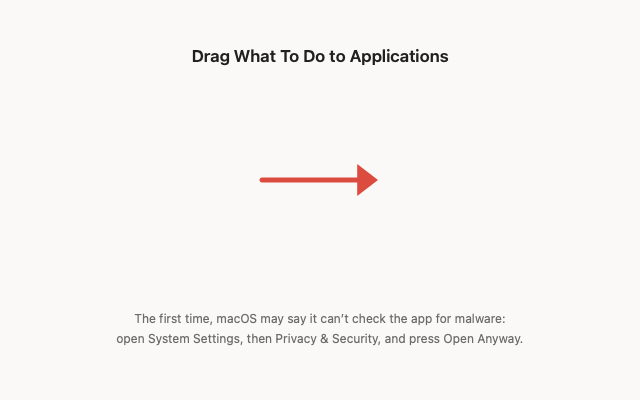
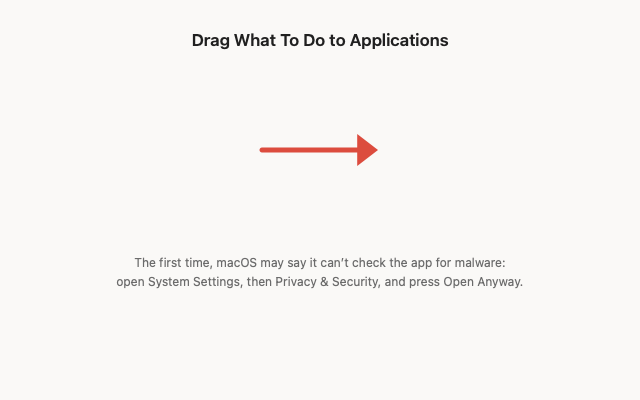
macOS disk images: Intel build, smoke test, release workflow, README install path

diff --git a/macos/scripts/render-dmg-background.swift b/macos/scripts/render-dmg-background.swift
@@ -4,8 +4,8 @@
 import AppKit
 
 let size = NSSize(width: 640, height: 400)
-let appCenter = NSPoint(x: 170, y: 180)
-let applicationsCenter = NSPoint(x: 470, y: 180)
+let appCenter = NSPoint(x: 170, y: 150)
+let applicationsCenter = NSPoint(x: 470, y: 150)
 let arrowInset: CGFloat = 92
 let arrowHead: CGFloat = 16
 
@@ -58,9 +58,9 @@ head.close()
 accent.setFill()
 head.fill()
 
-draw("Drag What To Do to Applications", size: 17, weight: .semibold, color: ink, centerY: 56)
-draw("The first time, macOS may say it can’t check the app for malware:", size: 12, weight: .regular, color: muted, centerY: 318)
-draw("open System Settings, then Privacy & Security, and press Open Anyway.", size: 12, weight: .regular, color: muted, centerY: 338)
+draw("Drag What To Do to Applications", size: 17, weight: .semibold, color: ink, centerY: 40)
+draw("The first time, macOS may say it can’t check the app for malware:", size: 12, weight: .regular, color: muted, centerY: 262)
+draw("open System Settings, then Privacy & Security, and press Open Anyway.", size: 12, weight: .regular, color: muted, centerY: 281)
 
 NSGraphicsContext.restoreGraphicsState()
 try! rep.representation(using: .png, properties: [:])!.write(to: URL(fileURLWithPath: output))

diff --git a/src/where_to_go/launcher/bundle_updater.py b/src/where_to_go/launcher/bundle_updater.py
@@ -81,6 +81,8 @@ class DiskImageInstaller:
         finally:
             if self._run(["hdiutil", "detach", str(mount)]) != 0:
                 self._run(["hdiutil", "detach", "-force", str(mount)])
+            if mount.is_dir() and not any(mount.iterdir()):
+                mount.rmdir()
         disk_image.unlink(missing_ok=True)
         self._check(staged, installed.arch, version)
         return staged

diff --git a/macos/dmg/settings.py b/macos/dmg/settings.py
@@ -21,4 +21,4 @@ show_pathbar = False
 show_sidebar = False
 icon_size = 112
 text_size = 13
-icon_locations = {app_name: (170, 180), "Applications": (470, 180)}
+icon_locations = {app_name: (170, 150), "Applications": (470, 150)}

diff --git a/README.md b/README.md
@@ -93,34 +93,67 @@ See how many posts and photos Claude read, how many announcements were merged in
 - **Your choice of Claude model** for each step: Haiku, Sonnet or Opus.
 - **Editable prompts.** Every prompt Claude gets is in **Settings**.
 - **One-button updates.** When a new version is out, **New version** appears in the sidebar with the list of changes and an **Update** button.
-- **Optional macOS app** with its own window and a menu bar mode, see [docs/macos-app.md](docs/macos-app.md).
+- **A macOS app** with its own window, installed from a disk image, see [Install and run](#macos).
 
 ## Requirements
 
+A Claude subscription ([claude.ai](https://claude.ai)): Claude reads the posts. The app signs in to it from its own window and uses your subscription through Claude Code, with no API key.
+
+That is all the macOS app needs. On Linux and Windows, and to run the app from its code, you also need:
+
 | What | Why | How to get it |
 | --- | --- | --- |
-| A Claude subscription | Claude reads the posts | [claude.ai](https://claude.ai) |
-| Claude Code, signed in | The app calls Claude through your Claude Code login, with no API key | Install [Claude Code](https://claude.com/claude-code), run `claude` in a terminal and type `/login` |
 | [uv](https://docs.astral.sh/uv/getting-started/installation/) | Installs and runs the app | It also installs the right Python by itself |
 | [Node.js](https://nodejs.org) 20 or later | Builds the interface on the first start and after updates that change it | |
 | [Git](https://git-scm.com/downloads) | Downloads the app and its updates | |
 
-Everything works the same on macOS, Linux and Windows.
-
 ## Install and run
 
-Run these in Terminal on macOS, in a Linux terminal or in PowerShell on Windows:
+### macOS
+
+The app needs macOS 14 Sonoma or later.
+
+1. Download the disk image for your Mac from the [latest release](https://github.com/kudrmax/what-to-do/releases/latest):
+
+   | Your Mac | Disk image |
+   | --- | --- |
+   | Apple silicon: an M1 chip or newer | `What-To-Do-<version>-Apple-Silicon.dmg` |
+   | An Intel processor | `What-To-Do-<version>-Intel.dmg` |
+
+   Not sure? Open the Apple menu, then **About This Mac**: the **Chip** line names an Apple chip, the **Processor** line an Intel one.
+2. Open the disk image and drag **What To Do** onto **Applications**.
+3. Open **What To Do** from Applications or Launchpad.
+
+**The first time**, macOS stops the app: it says Apple could not verify that What To Do is free of malware. The app is free and open source, but it isn't notarized by Apple, which needs a paid Apple developer account. To open it:
+
+1. Press **Done** in the message.
+2. Open **System Settings**, then **Privacy & Security**, and scroll down to **Security**.
+3. Next to "What To Do" was blocked to protect your Mac, press **Open Anyway**. The button stays there for about an hour after you tried to open the app.
+4. Enter your Mac's password, then press **Open Anyway** in the message that follows.
+
+![Privacy & Security: "What To Do" was blocked to protect your Mac, with the Open Anyway button](docs/images/readme/macos-open-anyway.png)
+
+macOS remembers this: the app and its updates open without asking again. Control-click and **Open** no longer get past this message since macOS 15 Sequoia.
+
+The window starts the app's server when it opens and stops it when you quit. Your events and settings live in `~/Library/Application Support/where-to-go`.
+
+**Updating.** When a new version is out, **New version** appears in the sidebar with the list of changes and an **Update** button. The app downloads the new version from GitHub and puts it in place of the old one; then a note at the top of the window offers **Restart**. Your data stays where it is.
+
+**Uninstalling.** Quit What To Do and drag it from Applications to the Trash. To delete your events and settings too, move these folders to the Trash: `~/Library/Application Support/where-to-go` (your data) and `~/Library/Application Support/What To Do` (the app's logs). In Finder, press `⇧⌘G` and paste the path to open a folder.
+
+### Linux, Windows, and running from the code
+
+Run these in a Linux terminal, in PowerShell on Windows or in Terminal on macOS:
 
 ```bash
 git clone https://github.com/kudrmax/what-to-do.git
 cd what-to-do
-uv sync
 uv run where-to-go up
 ```
 
-`up` builds the interface, starts the app in the background and prints its address: open **http://127.0.0.1:18765** in your browser. Closing the terminal does not stop the app.
+`up` installs everything the first time, builds the interface, starts the app in the background and prints its address: open **http://127.0.0.1:18765** in your browser. Closing the terminal does not stop the app.
 
-### Everyday commands
+#### Everyday commands
 
 Run them in the `what-to-do` folder:
 
@@ -135,11 +168,11 @@ Run them in the `what-to-do` folder:
 
 Every command has `--help`. On macOS and Linux, `make up`, `make down`, `make status`, `make logs` and `make update` do the same.
 
-### Updating
+#### Updating
 
 When a new version is out, **New version** appears in the sidebar with the list of changes and an **Update** button. It does the same as `uv run where-to-go update`: it downloads the release, installs its packages, rebuilds the interface if needed and restarts the app with the same port and data.
 
-### Uninstalling
+#### Uninstalling
 
 ```bash
 uv run where-to-go uninstall
@@ -147,9 +180,9 @@ uv run where-to-go uninstall
 
 It stops the app, removes the macOS app if you built one and asks whether to delete your data too. Both go to the Trash, or the Recycle Bin on Windows. The last step is yours: delete the `what-to-do` folder, which holds the code and the installed packages. Nothing is installed anywhere else.
 
-### The macOS app
+#### A macOS window for a copy run from the code
 
-An optional native window that starts the app when you open it and stops it when you quit: run `make app`, see [docs/macos-app.md](docs/macos-app.md).
+`make app` builds a native window for the copy in this folder, see [docs/macos-app.md](docs/macos-app.md).
 
 ## First steps
 
@@ -201,11 +234,11 @@ Click a card for the full details and the original posts. With a long feed, try 
 
 ## FAQ
 
-**Refresh says to sign in to Claude Code.**
-The app uses your Claude Code login. Run `claude` in a terminal and type `/login`, then press **Refresh** again. `uv run where-to-go status` shows whether you are signed in.
+**Refresh says to sign in to Claude.**
+Press **Sign in to Claude** under **Refresh**. The sign-in page opens in your browser; sign in with the account of your Claude subscription, come back and press **Refresh** again. If the browser didn't open, the note has a link to the page and a field for the code the page shows. The app keeps this login in Claude Code's place in your keychain, so Claude Code on the same Mac is signed in too, and the other way round.
 
 **The port is busy.**
-Another program uses port 18765. Copy `.env.example` to `.env`, set `PORT` to another number and run `uv run where-to-go up` again.
+Another program uses port 18765. In the macOS app, create the file `~/Library/Application Support/What To Do/.env` with the line `PORT=18766` (or another free number) and open the app again. In a copy run from the code, copy `.env.example` to `.env`, set `PORT` to another number and run `uv run where-to-go up` again.
 
 **Where is my data?**
 In one folder: the SQLite database `where-to-go.sqlite3` and the downloaded images.
@@ -216,7 +249,7 @@ In one folder: the SQLite database `where-to-go.sqlite3` and the downloaded imag
 | Linux | `~/.local/share/where-to-go` |
 | Windows | `%LOCALAPPDATA%\where-to-go` |
 
-`uv run where-to-go status` shows the folder in use; `DATA_DIR` in `.env` moves it. To back it up, copy the folder while the app is stopped.
+`uv run where-to-go status` shows the folder in use in a copy run from the code; `DATA_DIR` in `.env` moves it. To back it up, copy the folder while the app is stopped.
 
 **What leaves my computer?**
 Everything stays on your computer except:
@@ -225,7 +258,7 @@ Everything stays on your computer except:
 | --- | --- |
 | Telegram (`t.me`) and the websites you add | The app downloads their public posts and event pages |
 | Claude, through your Claude Code login | Post texts and photos, to turn them into events |
-| GitHub | `git fetch` of this repository, to check for new versions |
+| GitHub | Checks for new versions and downloads them: the macOS app asks GitHub's list of releases, a copy run from the code runs `git fetch` |
 
 The server listens only on `127.0.0.1`, so other devices on your network can't open it.
 

diff --git a/docs/macos-app.md b/docs/macos-app.md
@@ -1,12 +1,31 @@
 # The macOS app
 
-**What To Do** runs in any browser at `http://127.0.0.1:<PORT>`. The optional macOS app wraps the same page in a native window:
+**What To Do** runs in any browser at `http://127.0.0.1:<PORT>`. The macOS app wraps the same page in a native window. It comes in two kinds:
+
+- **From the disk image**, for everyone: a self-contained `What To Do.app` with Python, the app's packages, the built interface and the Claude CLI inside. Install and first launch are in the [README](../README.md#macos). It updates from the disk images of GitHub releases.
+- **Built from a git copy** with `make app`, for developers: a window for the copy in that folder, updated with git like the copy itself.
+
+Both:
 
 - It starts the server on launch, so you don't need the terminal.
 - The window has no separate title bar: the page runs under it. Drag the window by an empty spot of the strip along the top, and double-click there to zoom it.
 - Optional **menu bar** mode.
 
-## Building it
+## The app from the disk image
+
+Inside the bundle, `Contents/Resources/python` is a relocatable CPython from [python-build-standalone](https://github.com/astral-sh/python-build-standalone) with the app's packages from `uv.lock`, and `Contents/Resources/project` holds the built interface, the changelog and `bundle.json`, which names the bundle's architecture. The app never writes into its bundle: its server records, logs and update downloads go to `~/Library/Application Support/What To Do`, and the data to `~/Library/Application Support/where-to-go`, as for every copy.
+
+The port is 18765. `PORT=<number>` in `~/Library/Application Support/What To Do/.env` changes it; `DATA_DIR` there moves the data. For tests, `WHERE_TO_GO_PORT`, `WHERE_TO_GO_DATA_DIR` and `WHERE_TO_GO_STATE_DIR` override them, for example with `open --env`.
+
+There is a disk image for Apple Silicon and one for Intel Macs. The Claude CLI alone is 300 MB per architecture, so a universal app would be twice as big.
+
+**Building.** `macos/scripts/build-dmg.sh <arm64|x86_64> [output folder] [version]` builds the app and its disk image on any Mac with Xcode or its Command Line Tools, uv and Node.js, for either architecture. `macos/scripts/smoke-test-bundle.sh <app>` starts the built app's server on a free port with its own data and checks it. The release workflow (`.github/workflows/release-dmg.yml`) runs both for each architecture when a release is published and attaches the images to it; CI builds them on every push.
+
+**Signing.** There is no Apple Developer ID, so the bundle is signed ad hoc: Apple Silicon runs no unsigned code. The Claude CLI keeps Anthropic's own signature. macOS asks the user once to allow the app (see the README); the approval covers everything inside the bundle.
+
+**Updating.** The updater (`src/where_to_go/launcher/bundle_updater.py`) asks GitHub's releases for the newest one with a disk image for this Mac, downloads it to the state folder and checks its SHA-256 against GitHub's, copies the app out of the image next to the installed one while the app still runs, then stops the server, swaps the two bundles, moves the old one to the Trash and starts the new server. The window then shows **Restart to finish updating**. An app opened from the disk image or from Downloads runs from a read-only copy macOS made of it and says to move it to Applications first. `WHERE_TO_GO_GITHUB_API` and `WHERE_TO_GO_GITHUB_RAW` point the updater at another server, for testing.
+
+## Building it from a git copy
 
 The app needs Xcode or the Xcode Command Line Tools (`xcode-select --install`) and macOS 14 or later.
 
@@ -55,4 +74,6 @@ The page talks to the window through `frontend/src/native/nativeHost.ts`:
 - The window sets `--shell-titlebar-h`, `--shell-inset-start` and `--shell-inset-end` on the root element: where its own controls sit over the page.
 - The menu dispatches `nativeopensettings` and `nativecheckforupdates` on `window`.
 
-`Info.plist` of the built app carries `WTGProjectDir`, `WTGPort`, `WTGMenuBarIcon` and `WTGMacosTree`, the git tree of `macos/` the app was built from: when an update changes it, the running app shows the restart note.
+`Info.plist` of the app built from a git copy carries `WTGProjectDir`, `WTGPort`, `WTGMenuBarIcon` and `WTGMacosTree`, the git tree of `macos/` the app was built from: when an update changes it, the running app shows the restart note. The app from the disk image carries `WTGBundled` instead of `WTGProjectDir`, and its version as `WTGMacosTree`, so every update offers the restart.
+
+`macos/dmg/settings.py` lays out the disk image window for [dmgbuild](https://dmgbuild.readthedocs.io); `scripts/render-dmg-background.swift` draws its background.

diff --git a/docs/development.md b/docs/development.md
@@ -8,7 +8,7 @@ How What To Do is built and how to work on it. For installing and using the app,
 | --- | --- |
 | `src/where_to_go/` | Python backend (FastAPI + SQLModel) |
 | `frontend/` | Web interface (React + TypeScript, Vite) |
-| `macos/` | Optional macOS app, see [macos-app.md](macos-app.md) |
+| `macos/` | The macOS app and its disk image, see [macos-app.md](macos-app.md) |
 | `src/where_to_go/launcher/` | The `where-to-go` command line: up, down, status, logs, update, uninstall on every platform |
 | `scripts/` | Update status page, install smoke test, OpenAPI export, data migration |
 | `tests/` | Backend tests |
@@ -29,7 +29,7 @@ Run `uv run where-to-go serve --help` for the flags:
 | `--data` | Folder for the database and images. Defaults to the platform's user data folder; a git worktree uses its own `./data`. |
 | `--ui` | A built web interface to serve at the root. The API then moves to `/api`. |
 
-Claude is called through `claude-agent-sdk`, that is, through the Claude Code login. The SDK brings its own Claude Code CLI; only the login is needed. No API key is used.
+Claude is called through `claude-agent-sdk`, that is, through the Claude Code login. The SDK brings its own Claude Code CLI; only the login is needed. No API key is used. Without a login, the note under **Refresh** signs in from the app: `POST /claude/sign-in` runs the bundled CLI's `claude auth login`, which opens the sign-in page in the browser and takes the login back by itself (`claude_login.py`).
 
 Each entity is described once in `models.py` (SQLModel): a base class with the fields and their descriptions for Claude, and from it the table and the public API model. Settings, including Claude's prompts, live in `settings.py` (defaults in `prompts.py`).
 
@@ -73,7 +73,7 @@ Settings of a copy come from the command-line flags, then `WHERE_TO_GO_PORT`, `W
 | `INSTANCE_ENV_NAME` | Label of this copy: `prod` names the macOS app "What To Do", anything else "What To Do <Name>" |
 | `MENU_BAR_ICON` | `1` makes the macOS app live in the menu bar |
 
-CI (`.github/workflows/ci.yml`) runs the tests and an install smoke test (`scripts/smoke_test.py`: up, status, down with no processes left, uninstall) on macOS, Linux and Windows. Run the smoke test locally with `uv run python scripts/smoke_test.py`.
+CI (`.github/workflows/ci.yml`) runs the tests and an install smoke test (`scripts/smoke_test.py`: up, status, down with no processes left, uninstall) on macOS, Linux and Windows, and builds and checks the macOS disk images for Apple Silicon and Intel. Run the smoke test locally with `uv run python scripts/smoke_test.py`.
 
 ## Tests
 

diff --git a/.claude/skills/release/SKILL.md b/.claude/skills/release/SKILL.md
@@ -1,6 +1,6 @@
 ---
 name: release
-description: Cuts a release of What To Do - picks the version, writes the CHANGELOG.md entry with annotated screenshots, bumps the version, tags, pushes and creates the GitHub Release. Use right after every merge to master (a merge always ships as a release, see CLAUDE.md), and when Max says "выпускай релиз", "сделай релиз", "release" or "cut a release".
+description: Cuts a release of What To Do - picks the version, writes the CHANGELOG.md entry with annotated screenshots, bumps the version, tags, pushes, creates the GitHub Release and checks that its macOS disk images are attached. Use right after every merge to master (a merge always ships as a release, see CLAUDE.md), and when Max says "выпускай релиз", "сделай релиз", "release" or "cut a release".
 ---
 
 # Release
@@ -129,9 +129,21 @@ sed -E "s#\]\((docs/images/[^)]+)\)#](https://raw.githubusercontent.com/$GITHUB_
 gh release create vX.Y.Z --repo "$GITHUB_REPO" --title X.Y.Z --notes-file "$WORK/notes.md"
 ```
 
-## 6. Afterwards
+## 6. The macOS disk images
 
-Tell Max the release URL (`gh release view vX.Y.Z --repo "$GITHUB_REPO" --json url -q .url`).
+Publishing the release starts the **macOS disk images** workflow (`.github/workflows/release-dmg.yml`). It builds `What-To-Do-X.Y.Z-Apple-Silicon.dmg` and `What-To-Do-X.Y.Z-Intel.dmg`, smoke-tests both and attaches them to the release, in 10 to 20 minutes. The macOS app updates only from these images: until they are attached, it does not see the release at all. Wait for the run and check the assets:
+
+```bash
+RUN=$(gh run list --repo "$GITHUB_REPO" --workflow release-dmg.yml --event release --limit 1 --json databaseId -q '.[0].databaseId')
+gh run watch "$RUN" --repo "$GITHUB_REPO" --exit-status
+gh release view vX.Y.Z --repo "$GITHUB_REPO" --json assets -q '.assets[].name'   # both .dmg files
+```
+
+If the run fails, read its log (`gh run view "$RUN" --log-failed`), fix the cause in a branch and ship a patch release; to retry a build without code changes, run the workflow by hand: `gh workflow run release-dmg.yml --repo "$GITHUB_REPO" -f tag=vX.Y.Z`. The release is not done until both images are attached.
+
+## 7. Afterwards
+
+Tell Max the release URL (`gh release view vX.Y.Z --repo "$GITHUB_REPO" --json url -q .url`) and the links of both disk images.
 
 Prod is not updated by merging or by this skill. It updates with **Update to X.Y.Z** in the app or with `make update` in the prod copy (`~/projects/what-to-do-prod`).
 
